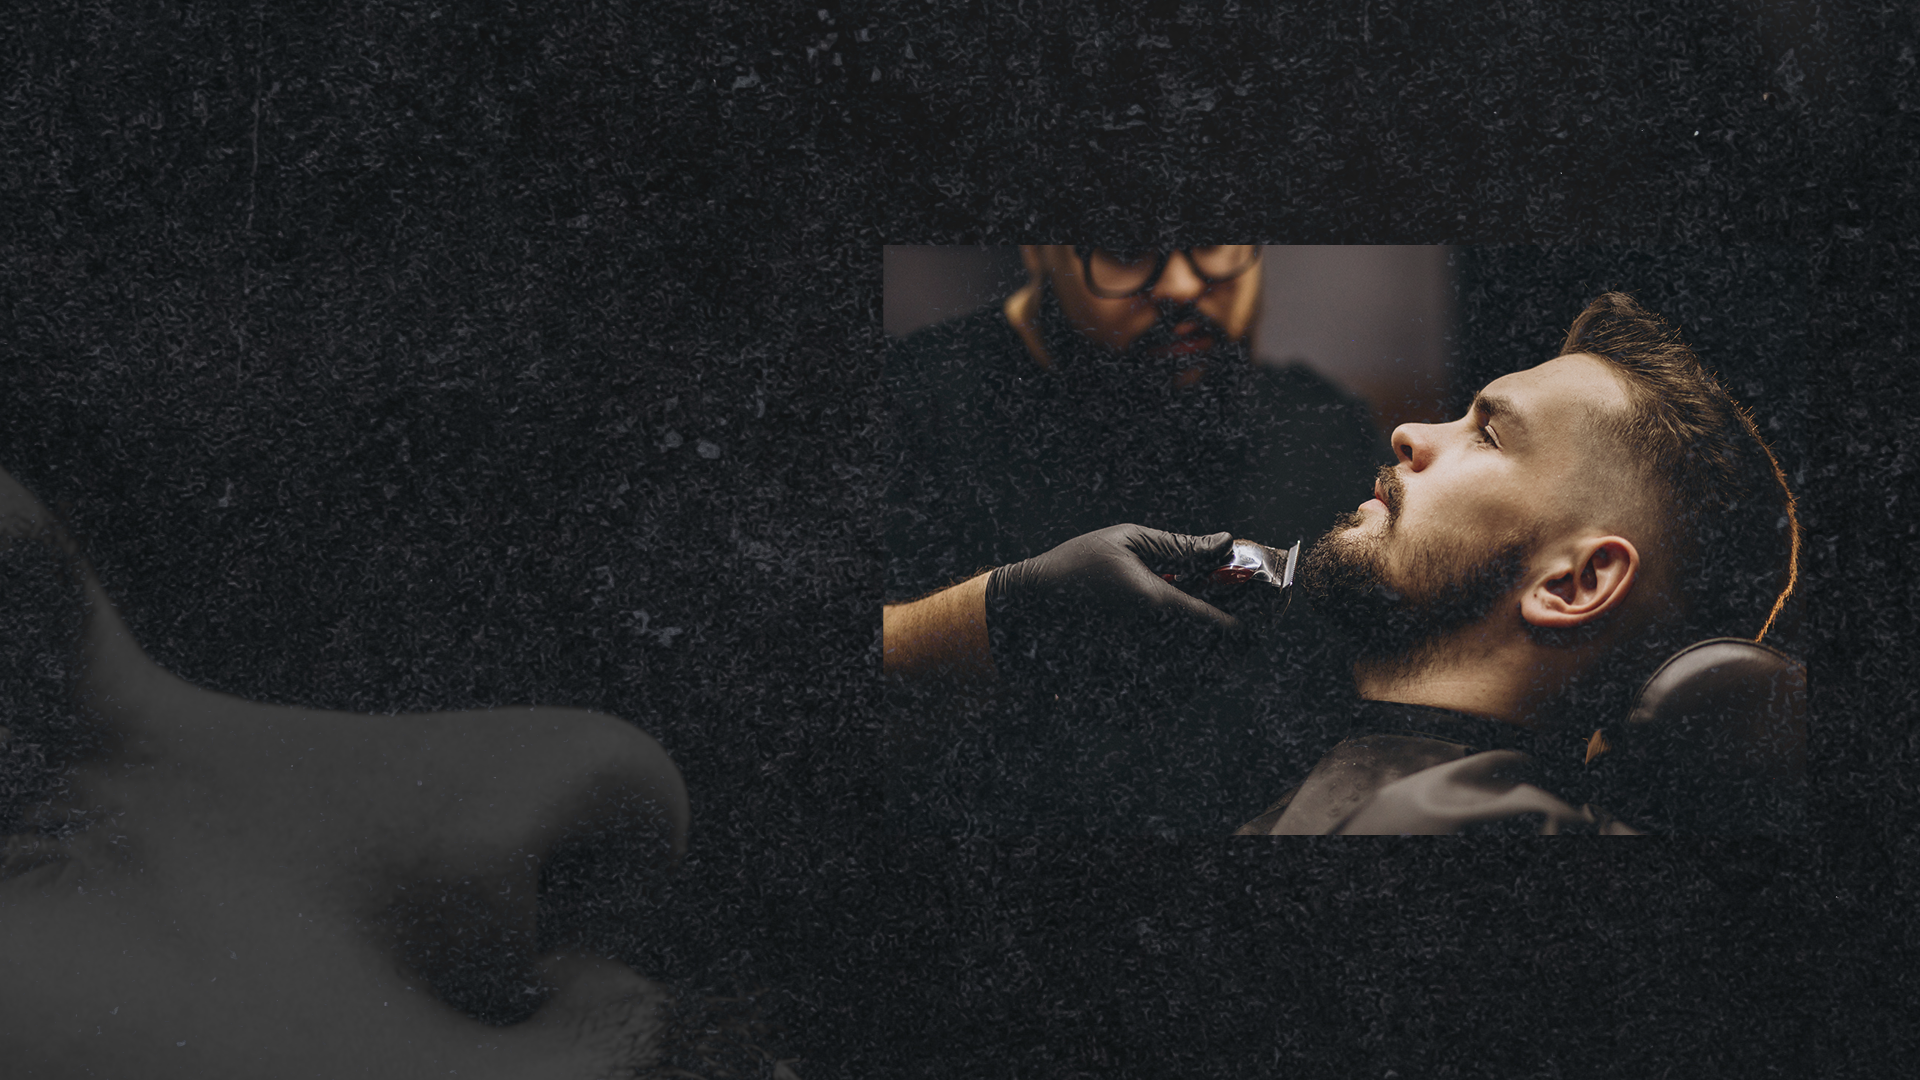
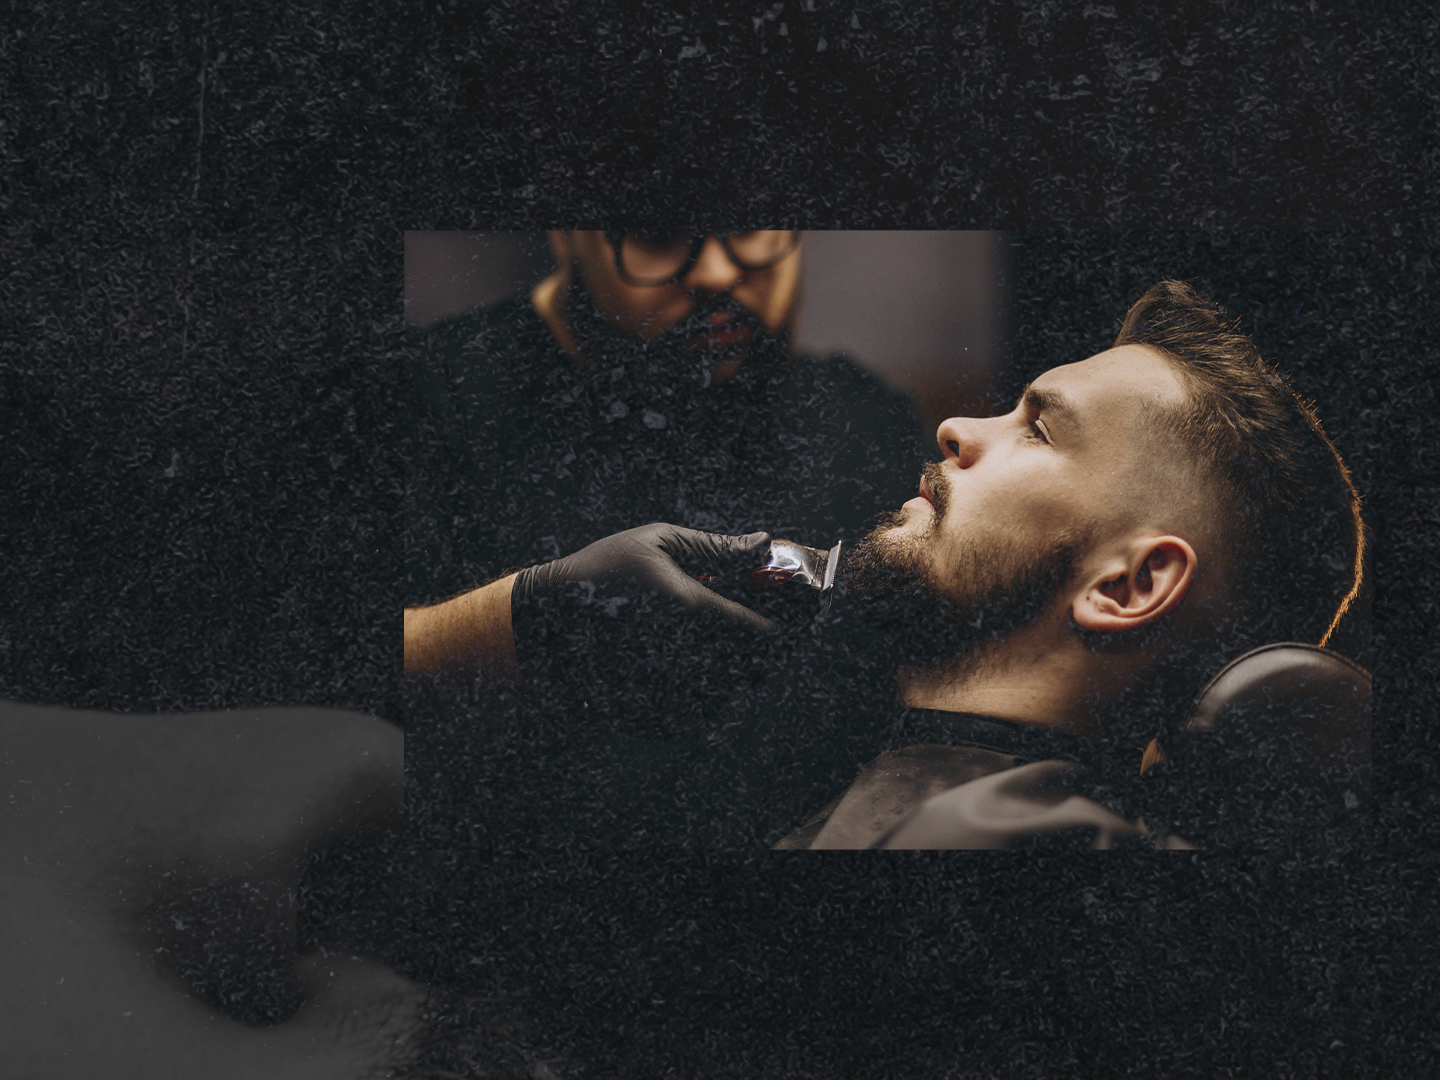
adicionando algumas alterações

diff --git a/index.html b/index.html
@@ -20,37 +20,37 @@
   </head>
   <body>
     <header id="header">
-      <div class="header__menu">
-        <div id="menu__logo">
+      <nav class="navbar">
+        <div class="navbar__logo">
           <img src="./assets/Imagens/logo.png" alt="" />
         </div>
 
-        <nav class="menu__nav">
-          <li><a href="">HOME</a></li>
-          <li><a href="">QUEM SOMOS</a></li>
-          <li><a href="">NOSSOS SERVIÇOS</a></li>
-          <li><a href="">GALERIA</a></li>
-          <li><a href="">CONTATO</a></li>
-        </nav>
-      </div>
+        <ul id="nav__menu">
+          <li class="menu__item"><a href="">HOME</a></li>
+          <li class="menu__item"><a href="">QUEM SOMOS</a></li>
+          <li class="menu__item"><a href="">NOSSOS SERVIÇOS</a></li>
+          <li class="menu__item"><a href="">GALERIA</a></li>
+          <li class="menu__item"><a href="">CONTATO</a></li>
+        </ul>
+      </nav>
 
-      <div id="header__content">
-        <h1 class="header__title">MUITO MAIS QUE UMA</h1>
-        <span class="header__span">BARBEARIA</span>
-
-        <div class="content__social-media">
-          <a href="#" class="social-media__link"
-            ><i class="fab fa-facebook link__icon"></i>/Barbershop</a
-          >
-          <a href="#" class="social-media__link"
-            ><i class="fab fa-twitter link__icon"></i>@Barbershop</a
-          >
-          <a href="#" class="social-media__link"
-            ><i class="fab fa-instagram link__icon"></i>@Barbershop</a
-          >
+      <div id="area__banner">
+        <div class="banner__content">
+          <h1 class="banner__title">MUITO MAIS QUE UMA</h1>
+          <h1 class="banner__title-orange">BARBEARIA</h1>
+          <div class="banner__social-media">
+            <a href="#" class="social-media__link"
+              ><i class="fab fa-facebook link__icon"></i>/Barbershop</a
+            >
+            <a href="#" class="social-media__link"
+              ><i class="fab fa-twitter link__icon"></i>@Barbershop</a
+            >
+            <a href="#" class="social-media__link"
+              ><i class="fab fa-instagram link__icon"></i>@Barbershop</a
+            >
+          </div>
+          <button class="banner__button">AGENDE SEU HORÁRIO</button>
         </div>
-
-        <button class="header__button">AGENDE SEU HORÁRIO</button>
       </div>
     </header>
 

diff --git a/assets/header.css b/assets/header.css
@@ -1,56 +1,58 @@
 @import url("https://fonts.googleapis.com/css2?family=Kreon:wght@300;500;700&family=Poppins:wght@400;500;600&family=Roboto:wght@400;500&display=swap");
 
 #header {
-  position: relative;
   width: 100vw;
-  height: 100vh;
-  background: url(./Imagens/banner.png);
-  background-position: 80%;
-  background-position-y: top;
+  max-height: 800px;
+  background: url(./Imagens/banner3.png);
+  background-size: contain;
+  background-position: 90%;
   background-size: cover;
 }
 
-.header__menu {
+.navbar {
   display: flex;
   align-items: center;
   justify-content: space-between;
   font: 18px bold;
-  padding: 1.5rem 7rem;
+  padding: 15px 7rem;
 }
 
-#menu__logo img {
+.navbar__logo img {
   width: 70px;
   height: 70px;
 }
 
-.menu__nav {
+#nav__menu {
   display: flex;
   align-items: center;
-  gap: 4rem;
+
+  gap: 2rem;
 }
 
-.menu__nav a {
+#nav__menu a {
   color: white;
 }
+#area__banner {
+  display: flex;
+  align-items: center;
+  width: 100vw;
+  height: calc(100vh - 105px);
+  max-height: 700px;
+}
 
-#header__content {
-  position: absolute;
-  top: 20%;
-  width: 40vw;
+.banner__content {
   color: white;
-  font-size: 16px;
   margin-left: 7rem;
-  margin-top: 4rem;
   line-height: 1.1;
 }
 
-.header__span {
+.banner__title-orange {
   font-size: 72px;
   font-weight: bold;
   color: var(--main-color);
 }
 
-.header__button {
+.banner__button {
   width: 300px;
   padding: 10px;
   color: white;
@@ -58,7 +60,7 @@
   font-size: 16px;
   border: none;
 }
-.content__social-media {
+.banner__social-media {
   display: flex;
   gap: 15px;
   flex-direction: column;

diff --git a/assets/services.css b/assets/services.css
@@ -1,5 +1,5 @@
 #services {
-  height: 100vh;
+  height: 800px;
   display: grid;
   align-content: center;
   padding: 2rem 0 5rem 0;
@@ -27,6 +27,7 @@
   padding: 20px;
   background-color: var(--second-color);
   transition: 0.5s;
+  border: 6px double var(--main-color);
 }
 
 .services__card:hover {

diff --git a/assets/about.css b/assets/about.css
@@ -1,7 +1,7 @@
 #about {
   display: flex;
   justify-content: space-between;
-  height: 60vh;
+  height: 70vh;
 }
 
 #about__img {
